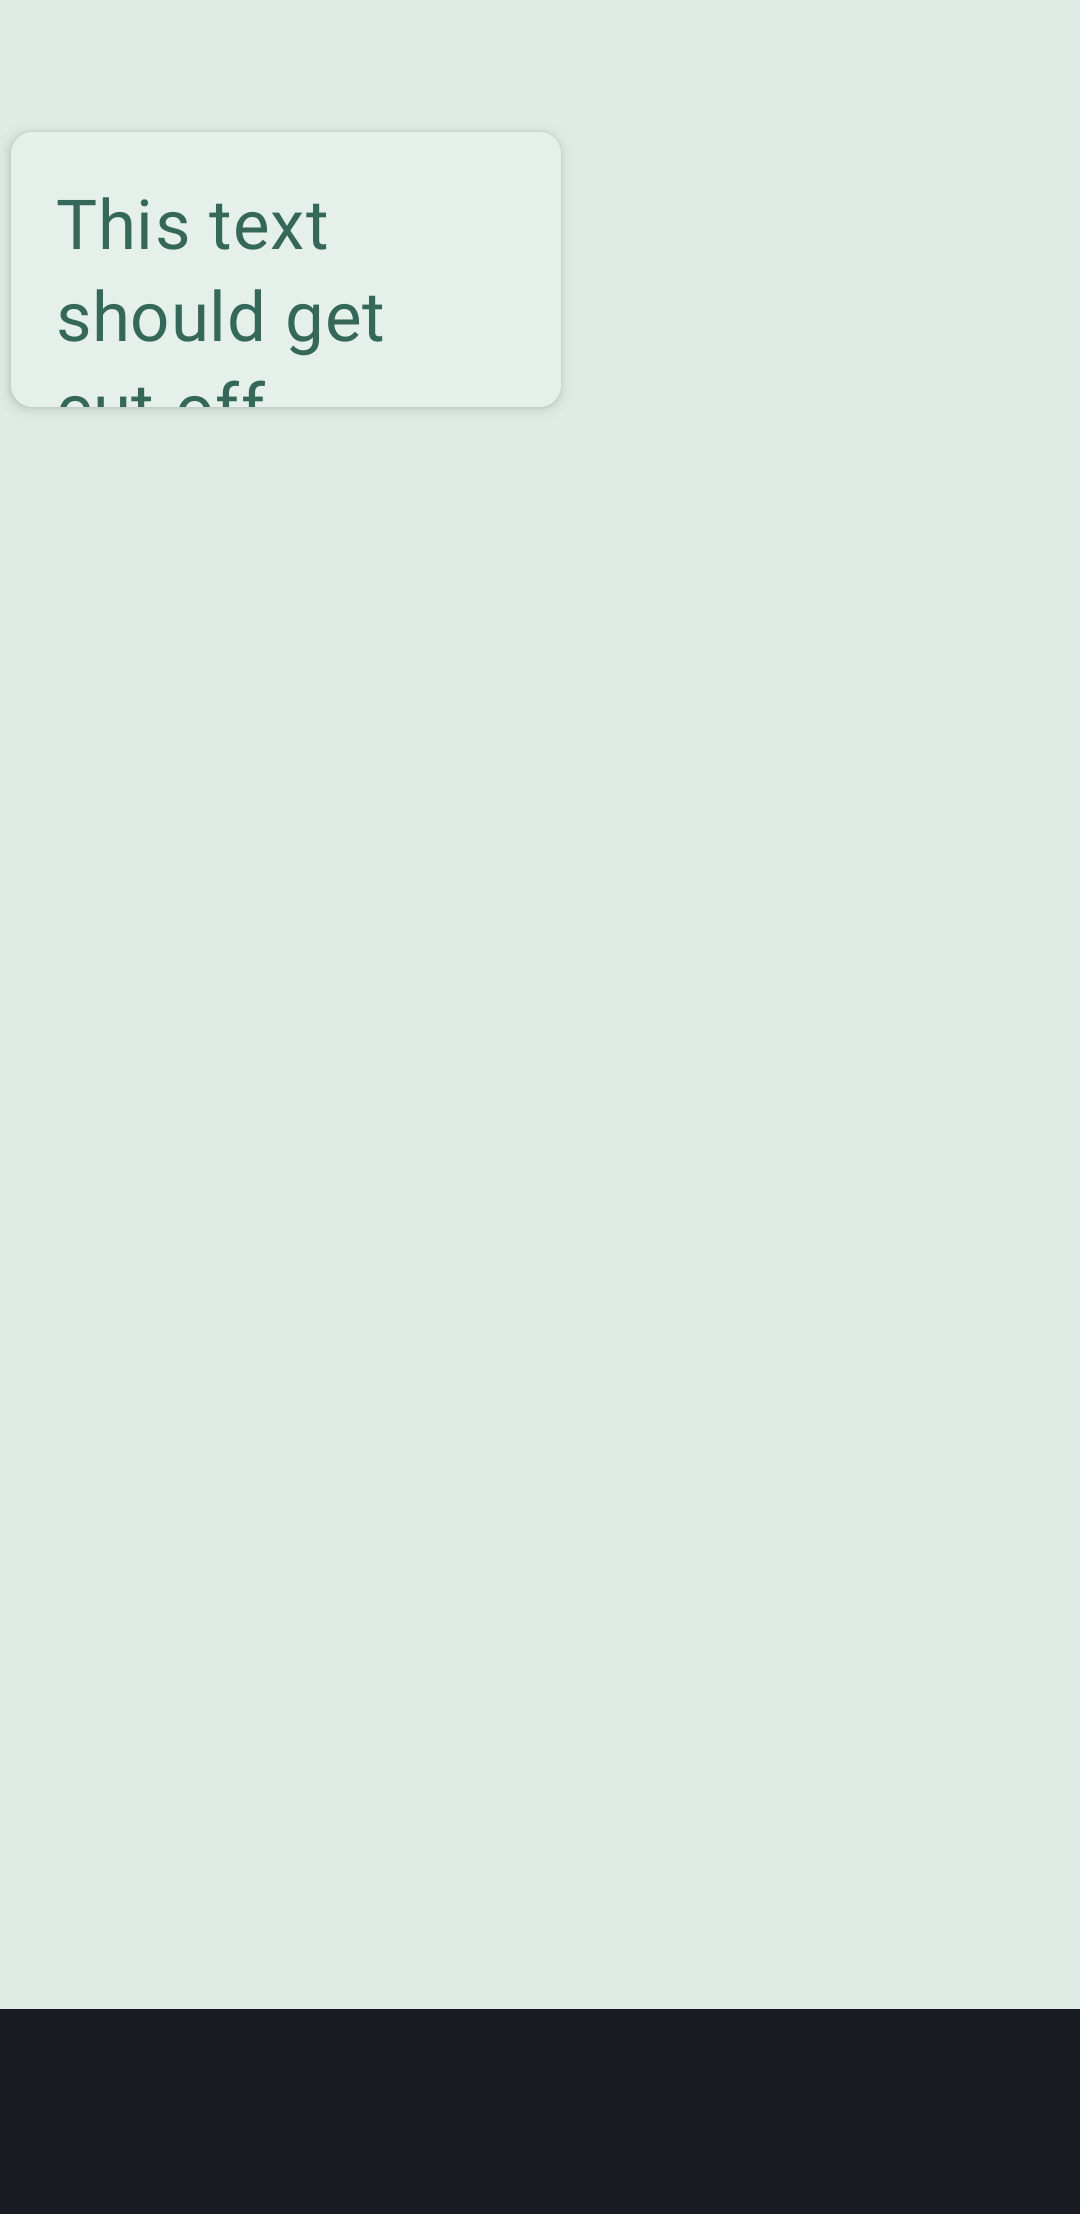
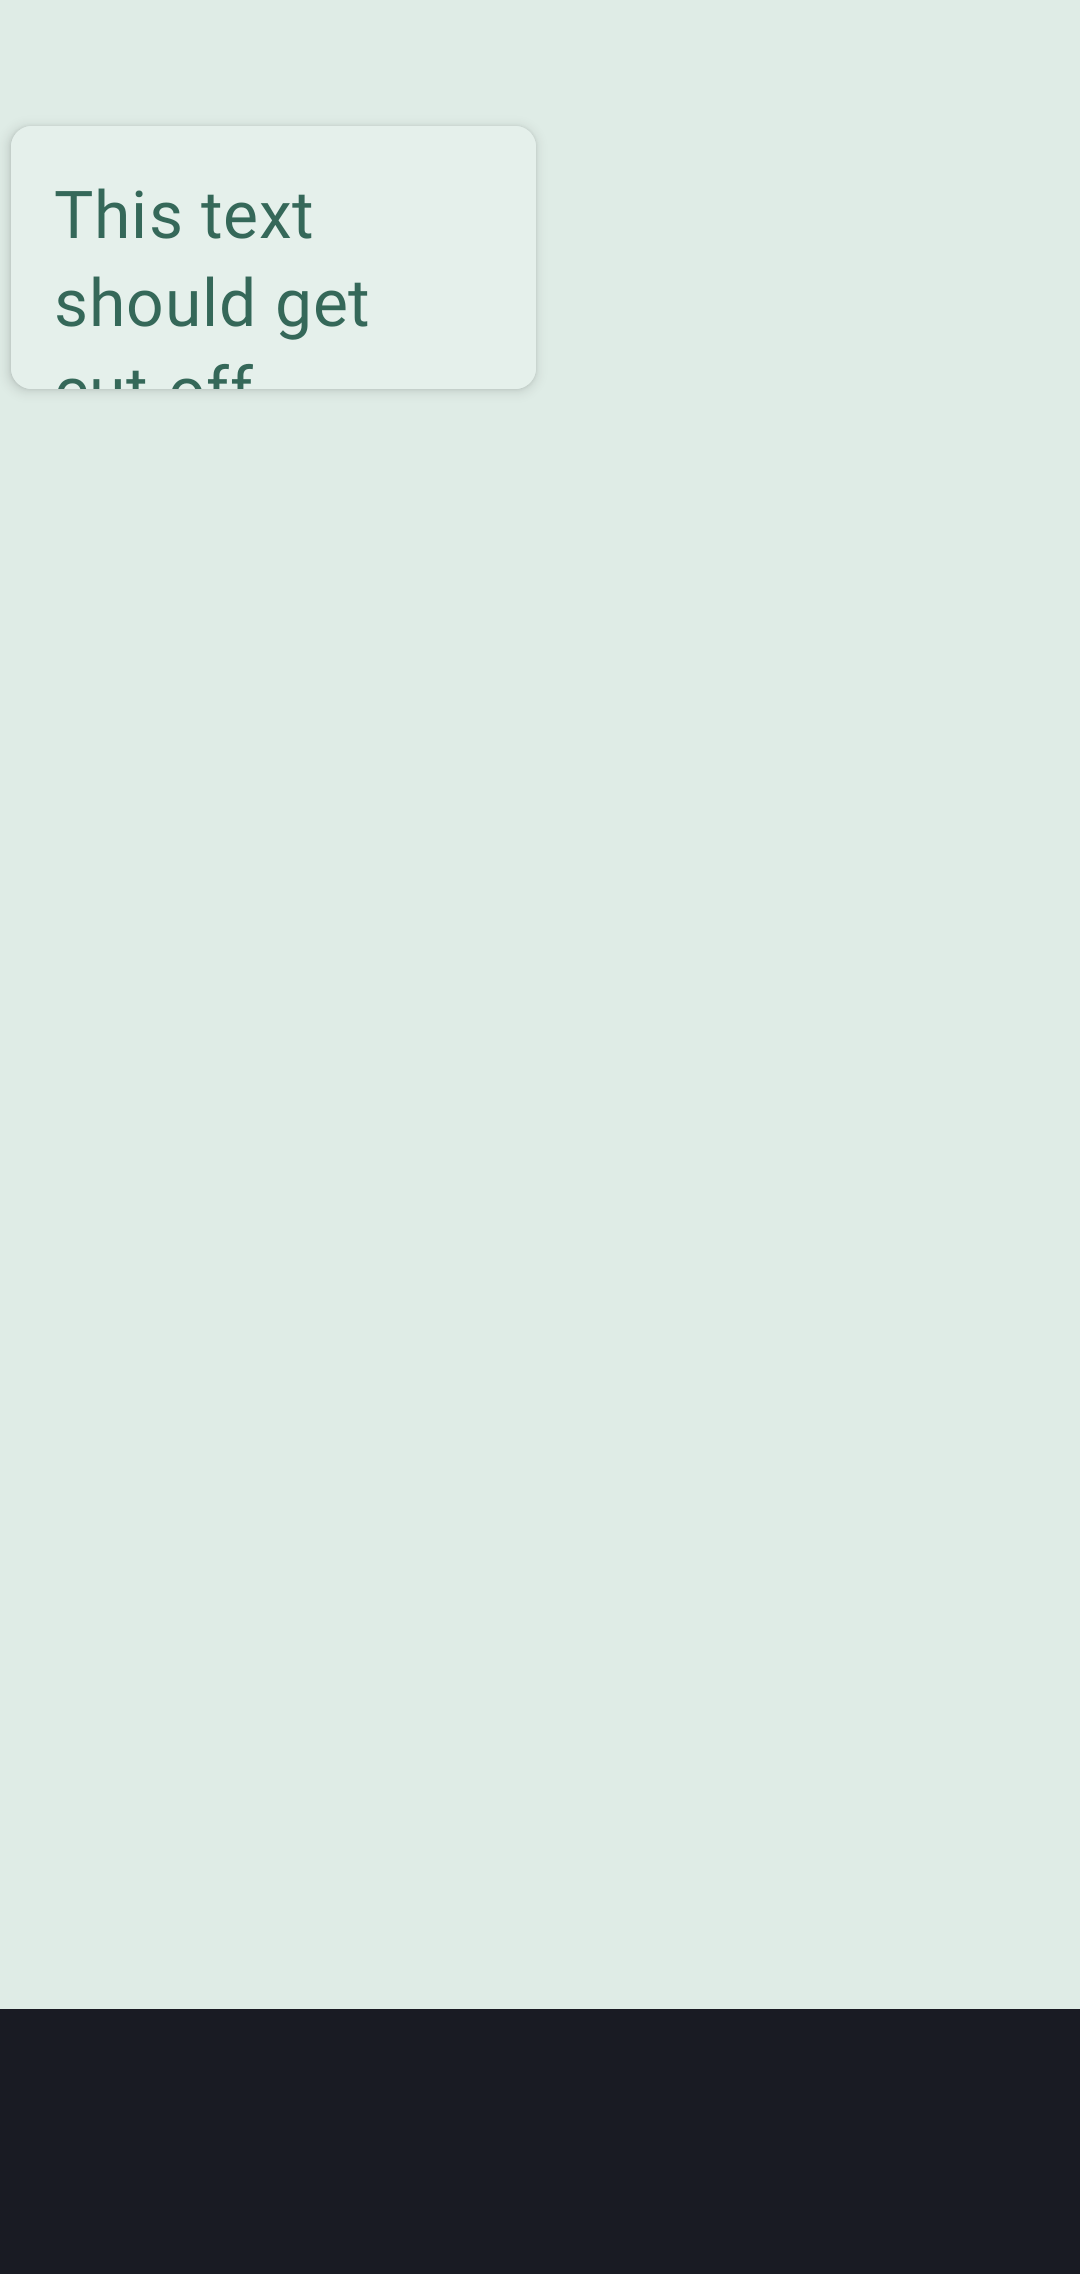
Add test param for setting FLAG_LAYOUT_NO_LIMITS on activity's window

Changed region(s): [[0.0, 0.8726, 1.0, 0.935], [0.0306, 0.0623, 0.3667, 0.187]]

diff --git a/cascade-compose/src/androidTestDebug/kotlin/me/saket/cascade/CascadePopupTest.kt b/cascade-compose/src/androidTestDebug/kotlin/me/saket/cascade/CascadePopupTest.kt
@@ -2,8 +2,8 @@
 
 package me.saket.cascade
 
-import android.app.Activity
 import android.graphics.Bitmap
+import android.view.WindowManager
 import androidx.compose.foundation.background
 import androidx.compose.foundation.layout.Box
 import androidx.compose.foundation.layout.fillMaxSize
@@ -34,13 +34,14 @@ import androidx.compose.ui.unit.em
 import androidx.compose.ui.unit.sp
 import androidx.test.core.app.takeScreenshot
 import com.dropbox.dropshots.Dropshots
-import com.squareup.burst.BurstJUnit4
+import com.google.testing.junit.testparameterinjector.TestParameter
+import com.google.testing.junit.testparameterinjector.TestParameterInjector
 import org.junit.Rule
 import org.junit.Test
 import org.junit.rules.TestName
 import org.junit.runner.RunWith
 
-@RunWith(BurstJUnit4::class)
+@RunWith(TestParameterInjector::class)
 internal class CascadePopupTest {
   @get:Rule val composeTestRule = createAndroidComposeRule<TestActivity>()
   @get:Rule val testName = TestName()
@@ -62,7 +63,7 @@ internal class CascadePopupTest {
         }
       }
     }
-    dropshots.assertDeviceSnapshot(composeTestRule.activity)
+    dropshots.assertDeviceSnapshot()
   }
 
   @Test fun size_given_to_cascade_should_be_correctly_applied_to_its_content() {
@@ -87,10 +88,20 @@ internal class CascadePopupTest {
         }
       }
     }
-    dropshots.assertDeviceSnapshot(composeTestRule.activity)
+    dropshots.assertDeviceSnapshot()
   }
 
-  @Test fun alignment_of_popup_should_match_with_material3(alignment: PopupAlignment) {
+  @Test fun alignment_of_popup_should_match_with_material3(
+    @TestParameter alignment: PopupAlignment,
+    @TestParameter useNoLimitsFlag: Boolean,
+  ) {
+    if (useNoLimitsFlag) {
+      composeTestRule.activity.run {
+        runOnUiThread {
+          window.addFlags(WindowManager.LayoutParams.FLAG_LAYOUT_NO_LIMITS)
+        }
+      }
+    }
     composeTestRule.setContent {
       CascadeMaterialTheme {
         PopupScaffold(alignment.alignment) {
@@ -132,7 +143,10 @@ internal class CascadePopupTest {
   }
 
   @Composable
-  private fun PopupScaffold(align: Alignment = Alignment.TopStart, content: @Composable () -> Unit) {
+  private fun PopupScaffold(
+    align: Alignment = Alignment.TopStart,
+    content: @Composable () -> Unit
+  ) {
     Box(
       Modifier
         .fillMaxSize()
@@ -145,7 +159,7 @@ internal class CascadePopupTest {
     }
   }
 
-  private fun Dropshots.assertDeviceSnapshot(activity: Activity) {
+  private fun Dropshots.assertDeviceSnapshot() {
     // This screenshots the entire device instead of just the active Activity's content.
     val screenshot: Bitmap = takeScreenshot()
 

diff --git a/cascade-compose/src/debug/kotlin/me/saket/cascade/TestActivity.kt b/cascade-compose/src/debug/kotlin/me/saket/cascade/TestActivity.kt
@@ -19,7 +19,6 @@ internal class TestActivity : AppCompatActivity() {
   override fun onCreate(savedInstanceState: Bundle?) {
     window.setDecorFitsSystemWindows(false)
     window.addFlags(WindowManager.LayoutParams.FLAG_DRAWS_SYSTEM_BAR_BACKGROUNDS)
-    window.addFlags(WindowManager.LayoutParams.FLAG_LAYOUT_NO_LIMITS)
     window.statusBarColor = Color.Transparent.toArgb()
     window.navigationBarColor = Color.Transparent.toArgb()
 
